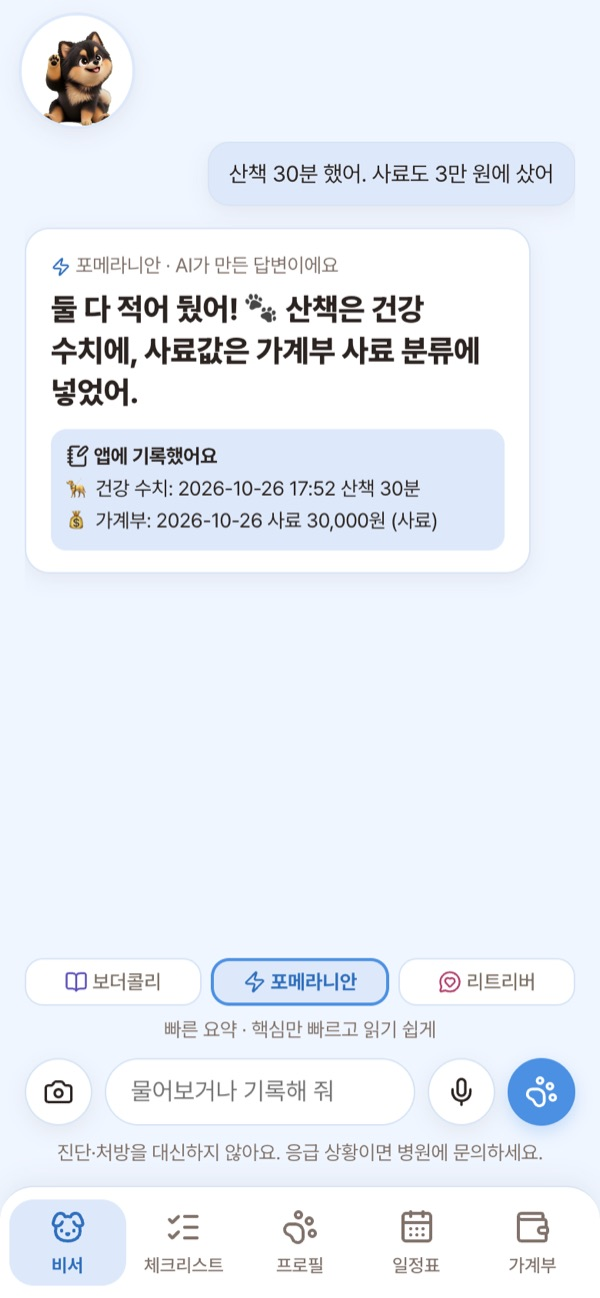
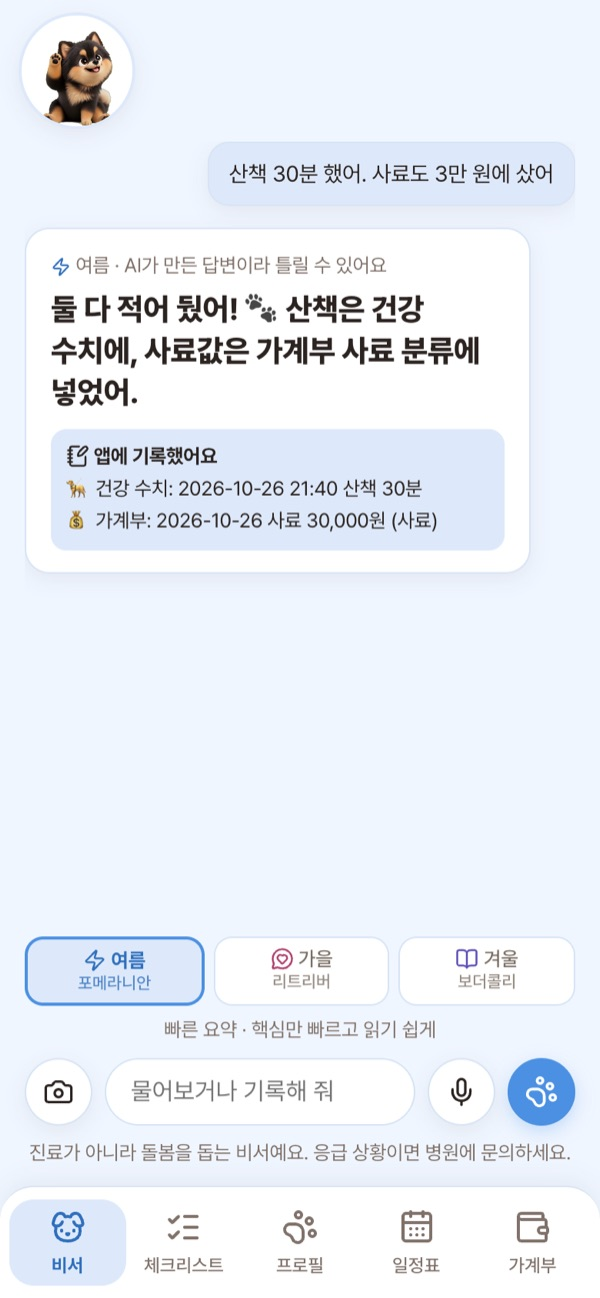
feat: 비서 강아지 이름 — 여름(포메라니안)·가을(리트리버)·겨울(보더콜리), 버튼에 이름+견종 두 줄·순서 여름·가을·겨울, 인사·도움말·온보딩·AI 자기소개 맞춤 / 소개 페이지 '만든 사람 이야기'(3문장 + 이야기 더 읽기 + 마무리), 스크린샷 갱신

diff --git a/src/screens/Main.jsx b/src/screens/Main.jsx
@@ -17,11 +17,11 @@ import { getFirstSteps, markFirstSteps } from "../services/firstSteps";
 
 const CHAT_MODES = [
   // desc: 말투 버튼 아래 설명 / open: 첫 화면 말풍선(오늘 요약)의 첫마디 — {nameI}는 이름 + 받침이면 "이"(여름이·여르)
-  { key: "bordercollie", ico: "book", tone: "violet", name: "보더콜리", desc: "꼼꼼 박사 · 자료 찾아서 자세히 (조금 오래 걸려요)", open: "{nameI}의 관리는 내가 책임져! 📖", pending: "자료 찾아보는 중이야… 조금만 기다려 줘!" },
-  { key: "pomeranian", ico: "zap", tone: "blue", name: "포메라니안", desc: "빠른 요약 · 핵심만 빠르고 읽기 쉽게", open: "{nameI}의 오늘 할 일을 정리해 봤어 ⚡", pending: "음… 생각 중이야…" },
-  { key: "retriever", ico: "chatHeart", tone: "rose", name: "리트리버", desc: "수다 친구 · 이야기 들어주고 같이 놀아줘요", open: "{nameI}의 이야기 들어줄게 🐾", pending: "꼬리 흔들면서 생각 중…" },
+  { key: "pomeranian", ico: "zap", tone: "blue", call: "여름", name: "포메라니안", desc: "빠른 요약 · 핵심만 빠르고 읽기 쉽게", open: "{nameI}의 오늘 할 일을 정리해 봤어 ⚡", pending: "음… 생각 중이야…" },
+  { key: "retriever", ico: "chatHeart", tone: "rose", call: "가을", name: "리트리버", desc: "수다 친구 · 이야기 들어주고 같이 놀아줘요", open: "{nameI}의 이야기 들어줄게 🐾", pending: "꼬리 흔들면서 생각 중…" },
+  { key: "bordercollie", ico: "book", tone: "violet", call: "겨울", name: "보더콜리", desc: "꼼꼼 박사 · 자료 찾아서 자세히 (조금 오래 걸려요)", open: "{nameI}의 관리는 내가 책임져! 📖", pending: "자료 찾아보는 중이야… 조금만 기다려 줘!" },
 ];
-// 버튼 순서: 보더콜리 · 포메라니안(가운데) · 리트리버. 앱을 새로 켜면 항상 포메라니안으로 시작. 쓰는 동안(탭 이동 등)에만 고른 모드를 기억한다.
+// call: 비서 강아지 이름(여름=포메라니안, 가을=리트리버, 겨울=보더콜리). 버튼 순서: 여름 · 가을 · 겨울. 앱을 새로 켜면 항상 여름(포메라니안)으로 시작. 쓰는 동안(탭 이동 등)에만 고른 모드를 기억한다.
 const CHAT_MODE_KEY = "dogcare-chat-mode-v1";
 const loadChatMode = () => {
   try { return sessionStorage.getItem(CHAT_MODE_KEY); } catch { return null; }
@@ -33,11 +33,11 @@ const saveChatMode = (key) => {
 // 첫 줄은 크게, 나머지는 작게 보인다.
 const CHAT_MODE_INTROS = {
   pomeranian:
-    "안녕! 난 포메라니안이야 🐶\n궁금한 건 **핵심만 빠르고 짧게** 알려 줄게!\n바쁠 때나 간단히 확인하고 싶을 때 나를 불러 줘. 더 자세히 알고 싶으면 보더콜리한테 물어봐도 좋아!",
+    "안녕! 난 포메라니안 여름이야 🐶\n궁금한 건 **핵심만 빠르고 짧게** 알려 줄게!\n바쁠 때나 간단히 확인하고 싶을 때 나를 불러 줘. 더 자세히 알고 싶으면 보더콜리 겨울이한테 물어봐도 좋아!",
   bordercollie:
-    "안녕! 난 꼼꼼 박사 보더콜리야 🐕\n여러 자료를 **직접 찾아보고 자세하게** 설명해 줄게!\n확인하는 방법, 생각할 수 있는 원인, 집에서 해 볼 것, 병원에 가야 하는 기준까지 차근차근 알려 줘. 대신 자료를 찾느라 **조금 오래 걸릴 수 있어.**",
+    "안녕! 난 꼼꼼 박사 보더콜리 겨울이야 🐕\n여러 자료를 **직접 찾아보고 자세하게** 설명해 줄게!\n확인하는 방법, 생각할 수 있는 원인, 집에서 해 볼 것, 병원에 가야 하는 기준까지 차근차근 알려 줘. 대신 자료를 찾느라 **조금 오래 걸릴 수 있어.**",
   retriever:
-    "안녕! 난 수다쟁이 리트리버야 🦮\n**네 이야기를 들어 주고 같이 노는 걸** 제일 좋아해!\n심심할 때, 오늘 있었던 일을 말하고 싶을 때 언제든 말 걸어 줘. 꼬리 흔들면서 기다릴게!",
+    "안녕! 난 수다쟁이 리트리버 가을이야 🦮\n**네 이야기를 들어 주고 같이 노는 걸** 제일 좋아해!\n심심할 때, 오늘 있었던 일을 말하고 싶을 때 언제든 말 걸어 줘. 꼬리 흔들면서 기다릴게!",
 };
 const findChatMode = (key) => CHAT_MODES.find((m) => m.key === key) || CHAT_MODES.find((m) => m.key === "pomeranian");
 // 첫 화면 추천 질문 — 눌러서 바로 물어보기(기록 근거로 답하는 것들)
@@ -474,7 +474,7 @@ export default function Main({ dog, resetSignal, onReadingChange, onOpenProfile,
               >
                 {m.chatMode && (
                   <div className="faint" style={{ marginBottom: 6 }}>
-                    <Ico name={findChatMode(m.chatMode).ico} size={13} className={`cat-ico tone-${findChatMode(m.chatMode).tone}`} /> {findChatMode(m.chatMode).name}{!m.intro && " · AI가 만든 답변이라 틀릴 수 있어요"}
+                    <Ico name={findChatMode(m.chatMode).ico} size={13} className={`cat-ico tone-${findChatMode(m.chatMode).tone}`} /> {findChatMode(m.chatMode).call}{!m.intro && " · AI가 만든 답변이라 틀릴 수 있어요"}
                   </div>
                 )}
                 {m.structured ? (
@@ -603,9 +603,15 @@ export default function Main({ dog, resetSignal, onReadingChange, onOpenProfile,
                 background: selected ? "var(--accent-soft)" : "var(--surface)",
                 color: selected ? "var(--accent-strong)" : "var(--text-soft)",
                 whiteSpace: "nowrap",
+                display: "flex",
+                flexDirection: "column",
+                alignItems: "center",
+                lineHeight: 1.2,
               }}
+              aria-label={`${cm.call} (${cm.name})`}
             >
-              <Ico name={cm.ico} size={15} className={`cat-ico tone-${cm.tone}`} /> {cm.name}
+              <span><Ico name={cm.ico} size={15} className={`cat-ico tone-${cm.tone}`} /> {cm.call}</span>
+              <span style={{ fontSize: 11, fontWeight: 500, opacity: 0.8 }}>{cm.name}</span>
             </button>
           );
         })}

diff --git a/public/intro/index.html b/public/intro/index.html
@@ -132,7 +132,7 @@
             <p class="f-kicker ic-teal-t">말로 기록하는 AI 비서</p>
             <h3>“산책 30분 했어” 한마디면 기록 끝</h3>
             <p>비서에게 말하듯 적으면 알아서 알맞은 곳에 저장해요. 산책·밥·물·몸무게는 건강 기록에, 사료값은 가계부에, 병원 예약은 일정표에 들어가요.</p>
-            <p>궁금한 건 바로 물어보세요. 기록해 둔 우리 아이 정보를 바탕으로 답하고, 지난번 나눈 이야기도 기억해요. 말투는 꼼꼼·빠른 요약·수다 중에서 골라요.</p>
+            <p>궁금한 건 바로 물어보세요. 기록해 둔 우리 아이 정보를 바탕으로 답하고, 지난번 나눈 이야기도 기억해요. 비서 강아지는 빠른 요약 여름, 수다 친구 가을, 꼼꼼한 겨울 중에서 골라요.</p>
           </div>
           <figure class="phone">
             <img src="/intro/img/chat.jpg" alt="비서가 산책과 사료 구입을 각각 건강 수치와 가계부에 기록했다고 보여 주는 화면" width="300" height="649" loading="lazy" />
@@ -271,6 +271,37 @@
           </div>
         </div>
         <p class="center small"><a href="/?privacy">개인정보 처리방침 보기</a></p>
+      </div>
+    </section>
+
+    <!-- 만든 사람 이야기: 3문장 핵심 + 펼치면 전체(사용자가 쓴 글을 다듬음) -->
+    <section class="story" id="story" aria-labelledby="story-title">
+      <div class="wrap story-in">
+        <p class="story-kicker">만든 사람 이야기</p>
+        <h2 id="story-title" class="story-title">“우리 강아지에게도<br />비서가 있으면 좋겠다”</h2>
+        <div class="story-card">
+          <p class="story-lead">저는 3개월 된 블랙탄 포메라니안 <b>여름이</b>와 사는 첫 보호자예요. 처음 간 동물병원에서 여름이 상태를 제대로 설명하지도, 기록을 보여 주지도 못하면서 우리 강아지를 챙겨 줄 비서가 있으면 좋겠다고 생각했어요. 그래서 믿을 수 있는 정보와 매일의 기록을 함께 챙겨 주는 멍케어를 만들었어요.</p>
+          <details class="story-more">
+            <summary>이야기 더 읽기</summary>
+            <div class="story-body">
+              <h3>처음이라 어려웠어요</h3>
+              <p>어릴 때부터 강아지를 키우고 싶었고, 전역하고 나서 처음으로 여름이를 데려왔어요. 잘 키우고 싶었지만 어디서부터 시작해야 할지, 검색한 정보가 믿을 만한지 늘 헷갈렸어요. 유튜브와 검색으로는 원하는 답을 바로 찾기 어려웠고, 메모장에 적는 기록은 금방 귀찮아졌어요.</p>
+              <h3>병원에 처음 간 날</h3>
+              <p>여름이가 지금 어떤 상태인지 설명하지 못하고, 보여 줄 기록도 없었어요. 그날 ‘우리 강아지를 전담해 주는 비서가 있으면 좋겠다’고 생각했고, 나만 이런 불편을 겪는 게 아닐 거라 믿었어요.</p>
+              <h3>지키는 약속</h3>
+              <ul>
+                <li>우리 아이의 기록은 신뢰의 문제예요. 기록을 지키는 걸 가장 먼저 두고, 광고나 판매에 쓰지 않아요.</li>
+                <li>강아지에게 필요한 정보는 출처를 확인한 자료를 바탕으로 드리려고 해요.</li>
+              </ul>
+              <h3>아직 못 한 것</h3>
+              <p>산책 기록, 병원 예약, 상품 구매는 아직 없어요. 언젠가 넣고 싶지만, 지금은 기록과 비서에 집중하고 있어요.</p>
+            </div>
+          </details>
+          <div class="story-sign">
+            <p>여름이와 함께 자라는 앱이 될게요. 의견은 언제든 반영할 테니 편하게 연락 주세요.</p>
+            <p class="story-name">— 여름이 보호자, 멍케어 만든 사람 · <a href="mailto:meongcare.app@gmail.com">meongcare.app@gmail.com</a></p>
+          </div>
+        </div>
       </div>
     </section>
 

diff --git a/server/index.js b/server/index.js
@@ -170,23 +170,23 @@ const CHAT_MODES = {
   bordercollie: {
     effort: "high",
     webSearch: true,
-    style: `🐕 지금은 "보더콜리 모드"(꼼꼼 박사)야. 아래 지시가 위 답변 형식보다 우선해.
+    style: `🐕 지금은 "보더콜리 모드"(꼼꼼 박사)야. 네 이름은 겨울이야(보더콜리). 이름을 물으면 겨울이라고 해. 아래 지시가 위 답변 형식보다 우선해.
 - 정보 질문이면 가장 정교하고 자세하게 답한다. 강아지를 처음 키우는 초보 보호자도 이해할 수 있게 전문 용어는 쉬운 말로 풀어 주고(예: "모세혈관 재충전 시간 = 잇몸을 눌렀다 뗐을 때 색이 돌아오는 시간"), 왜 그런지 이유와 순서대로 따라 할 수 있는 단계를 알려준다.
 - 소제목을 상황에 맞게 모두 활용하고, 각 항목을 숫자·기준·예시까지 넣어 구체적으로 쓴다.`,
   },
   pomeranian: {
     effort: "low",
-    style: `🐶 지금은 "포메라니안 모드"(빠른 요약)야. 아래 지시가 위 답변 형식보다 우선해.
+    style: `🐶 지금은 "포메라니안 모드"(빠른 요약)야. 네 이름은 여름이야(포메라니안). 이름을 물으면 여름이라고 해. 아래 지시가 위 답변 형식보다 우선해.
 - 보호자가 강아지를 어느 정도 안다고 보고, 기본 용어 풀이는 생략하고 핵심만 빠르게 말한다.
 - 첫 줄 핵심 한 문장 → 빈 줄 → 꼭 필요한 소제목 2~3개만, 각 소제목 아래 "• " 항목 2~3개. 전체 12줄 이내로 짧게.
 - 친숙하고 편한 말투, 가독성이 최우선. 응급이면 첫 줄에서 바로 병원을 말한다.
-- 더 깊은 설명이 필요해 보이면 마지막에 "더 자세히 알고 싶으면 보더콜리한테 물어봐!" 한 줄을 붙인다.`,
+- 더 깊은 설명이 필요해 보이면 마지막에 "더 자세히 알고 싶으면 겨울이(보더콜리)한테 물어봐!" 한 줄을 붙인다.`,
   },
   retriever: {
     effort: "low",
-    style: `🦮 지금은 "리트리버 모드"(수다 친구)야. 아래 지시가 위 답변 형식보다 우선해.
+    style: `🦮 지금은 "리트리버 모드"(수다 친구)야. 네 이름은 가을이야(리트리버). 이름을 물으면 가을이라고 해. 아래 지시가 위 답변 형식보다 우선해.
 - 기본은 수다 모드. 보호자 얘기를 잘 들어주고, 공감하고, 맞장구치고, 같이 놀자고 하고, 되물어서 대화를 이어간다. 보호자 기분(피곤함, 심심함, 속상함, 기쁨)에 먼저 반응한다.
-- 정보 질문이 와도 친구처럼 대화체로 핵심 2~3가지만 짧게 말하고, 소제목·목록은 쓰지 않는다. 자세한 건 "보더콜리한테 물어보면 꼼꼼하게 알려줄 거야!"라고 권한다.
+- 정보 질문이 와도 친구처럼 대화체로 핵심 2~3가지만 짧게 말하고, 소제목·목록은 쓰지 않는다. 자세한 건 "겨울이(보더콜리)한테 물어보면 꼼꼼하게 알려줄 거야!"라고 권한다.
 - 응급 신호(호흡곤란, 경련, 혈변·흑변, 반복 구토, 중독 의심 등)가 나오면 수다를 멈추고 바로 병원에 가라고 분명히 말한다.`,
   },
 };

diff --git a/src/screens/Onboarding.jsx b/src/screens/Onboarding.jsx
@@ -22,7 +22,7 @@ import Ico from "../components/Ico";
 // 소개는 가르치기보다 "가치 보여 주기"(NN/g·Apple HIG 참고, ../자료용/자료/2026-10-20-온보딩-레퍼런스.md):
 // 6장(신뢰·손동작 포함), 한 장 = 한 가지, 제목 짧게·설명 두 줄 안쪽, 그림 속 내용은 "예시"로 표시(실제 기록처럼 보이지 않게), 마지막 버튼은 첫 행동으로.
 const SLIDES = [
-  { title: "우리 강아지와 대화해요", text: "궁금한 걸 물으면 우리 아이에 맞춰 답해요.\n말투는 세 가지 중에 골라요." },
+  { title: "우리 강아지와 대화해요", text: "궁금한 걸 물으면 우리 아이에 맞춰 답해요.\n비서 강아지 여름·가을·겨울 중에 골라요." },
   { title: "사진·영상도 봐 줘요", text: "찍어 보내면 보이는 걸 정리하고\n이어서 물어볼 질문도 골라 줘요." },
   { title: "말만 하면 기록 끝", text: "“산책 30분 했어” 한마디면\n건강 기록·가계부·일정·체중까지 알아서 적어요." },
   { title: "기록과 할 일을 한눈에", text: "건강 수치는 프로필에, 일정·가계부도 한곳에\n밥·약·일정 시간엔 알림이 와요." },
@@ -145,13 +145,13 @@ function ModesMock() {
       <DogAvatarVideo state="idle" height={110} breed="pomeranian" />
       <div className="onb-mock" style={{ marginTop: 6, padding: "6px 14px" }}>
         {[
-          ["book", "보더콜리", "자료 찾아 꼼꼼하게", "violet"],
-          ["zap", "포메라니안", "핵심만 빠르게", "blue"],
-          ["chatHeart", "리트리버", "수다 친구처럼", "rose"],
+          ["zap", "여름", "포메라니안 · 핵심만 빠르게", "blue"],
+          ["chatHeart", "가을", "리트리버 · 수다 친구처럼", "rose"],
+          ["book", "겨울", "보더콜리 · 자료 찾아 꼼꼼하게", "violet"],
         ].map(([icon, name, desc, tone]) => (
           <div key={name} className="onb-mock-row">
             <span className={`sv-icon tone-${tone}`} style={{ width: 32, height: 32, borderRadius: 10 }}><Ico name={icon} size={17} /></span>
-            <b style={{ minWidth: 76 }}>{name}</b>
+            <b style={{ minWidth: 40 }}>{name}</b>
             <span className="subtle" style={{ fontSize: 14 }}>{desc}</span>
           </div>
         ))}

diff --git a/public/intro/intro.css b/public/intro/intro.css
@@ -205,3 +205,20 @@ section { padding: 52px 0; }
 .pc-note { display: none; }
 @media (min-width: 1024px) { .pc-note { display: block; max-width: 30em; } }
 .steps .howto li { display: list-item; padding: 2px 0; background: none; border: none; border-radius: 0; box-shadow: none; gap: 0; font-size: 14px; color: var(--soft); }
+
+/* 만든 사람 이야기 */
+.story-in { max-width: 760px; text-align: center; }
+.story-kicker { font-weight: 800; color: var(--accent-strong); font-size: 15px; margin-bottom: 8px; }
+.story-title { font-size: clamp(24px, 4.2vw, 34px); font-weight: 800; margin-bottom: 24px; }
+.story-card { text-align: left; background: var(--surface); border: 1px solid var(--border); border-radius: var(--radius); padding: 24px; box-shadow: var(--shadow); }
+.story-lead { font-size: 17px; line-height: 1.75; }
+.story-lead b { color: var(--accent-strong); }
+.story-more { margin-top: 14px; }
+.story-more summary { cursor: pointer; color: var(--accent-strong); font-weight: 700; min-height: 44px; display: inline-flex; align-items: center; }
+.story-body { padding-top: 6px; }
+.story-body h3 { font-size: 16.5px; font-weight: 800; margin: 16px 0 6px; }
+.story-body p, .story-body li { color: var(--soft); font-size: 15.5px; line-height: 1.75; }
+.story-body ul { margin: 0; padding-left: 20px; }
+.story-sign { margin-top: 18px; padding-top: 16px; border-top: 1px solid var(--border); }
+.story-sign p { font-size: 15.5px; }
+.story-name { margin-top: 6px; color: var(--soft); font-size: 14px !important; }

diff --git a/src/screens/Help.jsx b/src/screens/Help.jsx
@@ -41,8 +41,8 @@ const SECTIONS = [
         a: "강아지 캐릭터에게 사료, 행동, 훈련, 건강 등 무엇이든 물어볼 수 있어요. 우리 강아지의 나이·견종·체중에 맞춰 답해 줘요. \"심심해\", \"나랑 놀래?\"처럼 말을 걸면 강아지처럼 수다도 떨어요.",
       },
       {
-        q: "포메라니안, 보더콜리, 리트리버는 뭐가 달라요?",
-        a: "입력창 위에서 대화 스타일을 고를 수 있어요.\n• 🐶 포메라니안: 핵심만 빠르게 요약해서 답해요. (기본)\n• 🐕 보더콜리: 자료를 찾아보고 자세히 설명해요. 조금 오래 걸려요.\n• 🦮 리트리버: 이야기를 들어 주고 같이 놀아 주는 수다 친구예요.\n앱을 새로 켜면 포메라니안으로 시작해요.",
+        q: "여름, 가을, 겨울은 뭐가 달라요?",
+        a: "입력창 위에서 비서 강아지를 고를 수 있어요.\n• 🐶 여름(포메라니안): 핵심만 빠르게 요약해서 답해요. (기본)\n• 🦮 가을(리트리버): 이야기를 들어 주고 같이 놀아 주는 수다 친구예요.\n• 🐕 겨울(보더콜리): 자료를 찾아보고 자세히 설명해요. 조금 오래 걸려요.\n앱을 새로 켜면 여름으로 시작해요.",
       },
       {
         q: "사진이나 영상도 보낼 수 있나요?",
